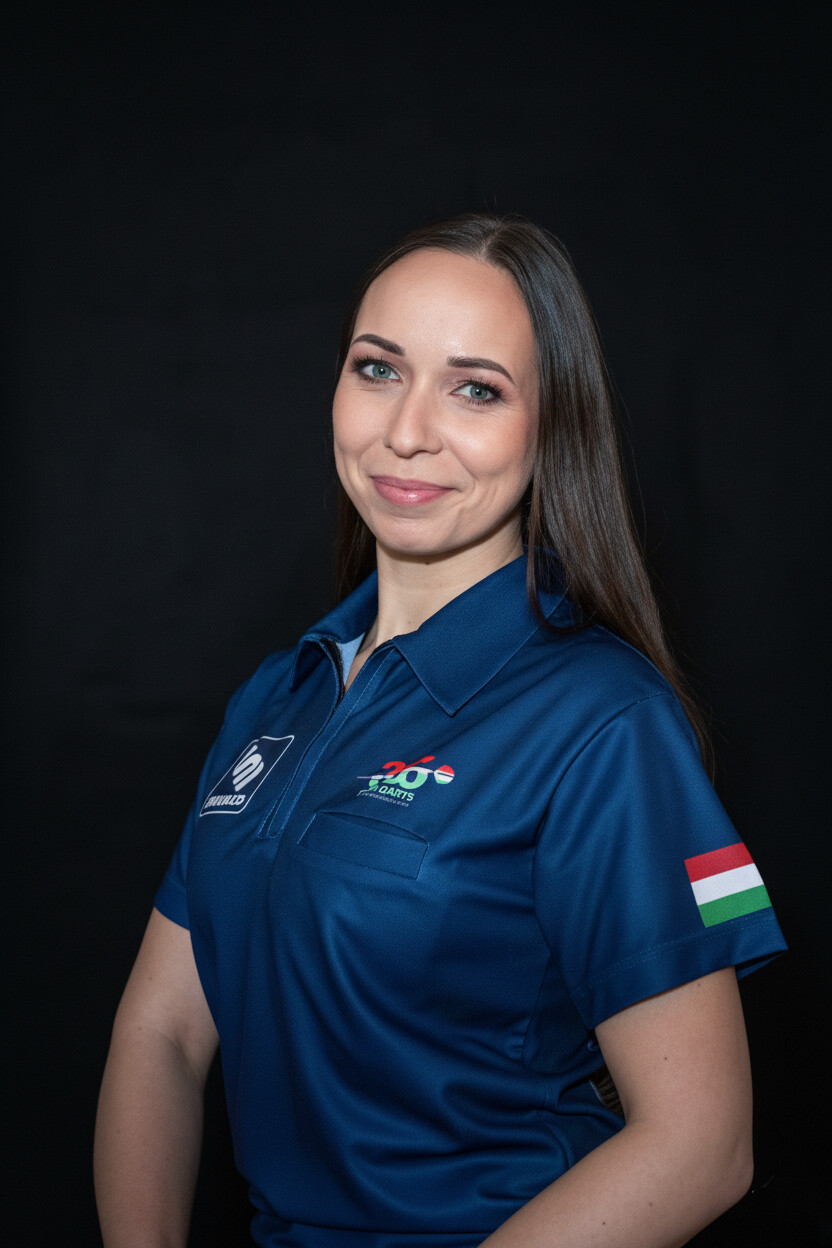
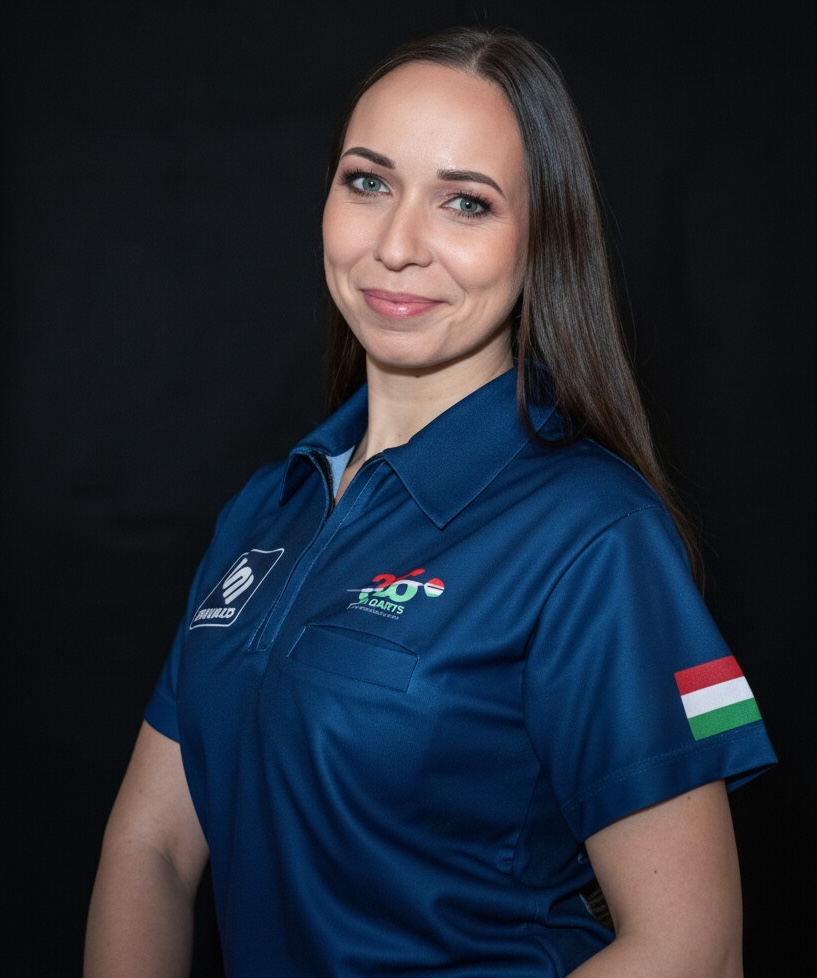
sos javítások

diff --git a/src/app/alapitvanyrol/magunkrol/page.tsx b/src/app/alapitvanyrol/magunkrol/page.tsx
@@ -9,55 +9,85 @@ export default function AboutPage() {
         <div className="container mx-auto px-4 text-center">
           <h1 className="text-4xl font-bold text-white mb-4">Rólunk</h1>
           <p className="text-xl text-gray-400 max-w-2xl mx-auto">
-            A 365daysdarts Alapítvány küldetése, víziója és története.
+            A Magyar Darts Akadémia Alapítvány története és küldetése.
           </p>
         </div>
       </section>
 
       <div className="container mx-auto px-4 py-12 space-y-20">
-        {/* Mission */}
-        <div className="grid md:grid-cols-2 gap-12 items-center">
+        
+        {/* MDAA BEMUTATKOZÓ */}
+        <div className="grid md:grid-cols-2 gap-12 items-start">
           <div className="space-y-6">
-            <div className="inline-flex items-center rounded-full bg-cta/10 px-3 py-1 text-sm text-cta border border-cta/20">
-              Küldetésünk
+            <h2 className="text-3xl font-bold text-white">Bemutatkozás</h2>
+            <div className="space-y-4 text-gray-300 leading-relaxed text-lg">
+              <p>
+                A Magyar Darts Akadémia Alapítványt alapítóink - <strong>Balázs Gábor</strong> és <strong>Tekauer Norbert</strong> - 2021-ben azzal a céllal hozták létre, 
+                hogy a darts sportot Magyarországon minél szélesebb körben megismertesse és népszerűsítse, valamint hogy a sportág iránt 
+                érdeklődő és elhivatott játékosok számára folyamatos játék- és versenyzési lehetőségeket biztosítson.
+              </p>
+              <p>
+                Az alapítvány szakmai munkáját szoros együttműködésben végzi a <strong>Magyar Darts Szövetséggel</strong>, mint sportszakmai irányító 
+                szervezettel, valamint a hazai darts egyesületekkel. Ennek az együttműködésnek köszönhetően tevékenységünk stabil szakmai 
+                alapokon nyugszik, és hosszú távon is fenntartható fejlődést biztosít a sportág számára.
+              </p>
+              <p>
+                Éves szinten kiemelt figyelmet fordítunk arra, hogy minél több eseményt és versenyt szervezzünk amatőr, fiatal, valamint sérült 
+                játékosok számára is, lehetőséget adva számukra a fejlődésre és akár a versenyzői szintre való továbblépésre.
+              </p>
             </div>
-            <h2 className="text-3xl font-bold text-white">A Darts Mindenkié</h2>
-            <p className="text-gray-300 leading-relaxed">
-              Lorem ipsum dolor sit amet, consectetur adipiscing elit. Sed do eiusmod tempor incididunt ut labore et dolore magna aliqua. Ut enim ad minim veniam, quis nostrud exercitation ullamco laboris nisi ut aliquip ex ea commodo consequat.
-            </p>
-            <p className="text-gray-300 leading-relaxed">
-              Duis aute irure dolor in reprehenderit in voluptate velit esse cillum dolore eu fugiat nulla pariatur. Excepteur sint occaecat cupidatat non proident, sunt in culpa qui officia deserunt mollit anim id est laborum.
-            </p>
           </div>
-          <div className="bg-navy p-8 rounded-2xl border border-navy-lighter flex items-center justify-center min-h-[300px]">
-            <Target className="h-32 w-32 text-navy-lighter" />
+          
+          <div className="bg-navy p-8 rounded-2xl border border-navy-lighter text-gray-300 space-y-4">
+             <p>
+                Elsődleges célcsoportunk a fiatal utánpótlás korosztály, valamint az aktív versenyzéstől már visszavonult, de a sportág iránt továbbra is 
+                elkötelezett játékosok. Ugyanakkor amatőr versenyeink széles korosztályt szólítanak meg, amely jelentős közösségépítő erőt képvisel.
+             </p>
+             <p>
+                A Magyar Darts Szövetséggel együttműködve, állandó klubhelyszínünkön a <strong>Remiz Event</strong> rendezvénytermében éves 
+                szinten közel 60 darts versenyt és eseményt valósítunk meg. Emellett az elmúlt években sikeresen elindítottuk amatőr 
+                versenysorozatunkat, a <strong>Diamonds Cup</strong>-ot, amelyre minden darts iránt érdeklődőt szeretettel vár a Magyar Darts Akadémia Alapítvány.
+             </p>
           </div>
         </div>
 
-        {/* Vision */}
-        <div className="grid md:grid-cols-2 gap-12 items-center md:flex-row-reverse">
-          <div className="bg-navy p-8 rounded-2xl border border-navy-lighter flex items-center justify-center min-h-[300px] md:order-1">
-            <Heart className="h-32 w-32 text-navy-lighter" />
-          </div>
-          <div className="space-y-6 md:order-2">
-            <div className="inline-flex items-center rounded-full bg-purple-500/10 px-3 py-1 text-sm text-purple-400 border border-purple-500/20">
-              Vízió
+        {/* ALAPÍTÓI KÜLDETÉS NYILATKOZAT */}
+        <div className="bg-navy-darker rounded-3xl p-8 md:p-12 border border-navy-lighter relative overflow-hidden">
+            <div className="absolute top-0 right-0 w-64 h-64 bg-cta/5 rounded-full blur-3xl -translate-y-1/2 translate-x-1/2" />
+            
+            <div className="relative z-10 max-w-4xl mx-auto text-center space-y-8">
+                <div className="inline-block px-4 py-1 rounded-full bg-cta/10 text-cta border border-cta/20 text-sm font-semibold tracking-wider uppercase">
+                    Alapítói Küldetés Nyilatkozat
+                </div>
+                
+                <h2 className="text-3xl md:text-4xl font-bold text-white">
+                    Balázs Gábor & Tekauer Norbert
+                </h2>
+
+                <div className="text-xl text-gray-300 leading-relaxed italic">
+                    "A Magyar Darts Akadémia Alapítvány küldetése, hogy a darts sportot nyitott, befogadó és közösségformáló tevékenységként képviselje Magyarországon."
+                </div>
+
+                <div className="grid md:grid-cols-2 gap-8 text-left text-gray-400 mt-8">
+                    <p>
+                        Célunk, hogy minden korosztály és képesség számára elérhetővé tegyük a darts nyújtotta sportolási és közösségi élményt, különös 
+                        hangsúlyt fektetve az utánpótlás-nevelésre, az amatőr sport támogatására, valamint a hátrányos helyzetű és sérült játékosok bevonására.
+                    </p>
+                    <p>
+                        Hiszünk abban, hogy a darts nem csupán versenysport, hanem egy olyan közösségépítő eszköz, amely fejleszti a koncentrációt, az 
+                        önfegyelmet és a sportszerűséget, miközben baráti és támogató közeget teremt a résztvevők számára.
+                    </p>
+                </div>
+                
+                <div className="pt-8 border-t border-navy-lighter">
+                    <p className="text-gray-400">
+                        Küldetésünk megvalósítása érdekében hosszú távú, szakmailag megalapozott együttműködésre törekszünk a <strong>Magyar Darts Szövetséggel</strong>, 
+                        az egyesületekkel és minden olyan partnerrel, aki osztja értékeinket, és tenni kíván a magyar darts jövőjéért.
+                    </p>
+                </div>
             </div>
-            <h2 className="text-3xl font-bold text-white">Egy Támogató Közösség</h2>
-            <p className="text-gray-300 leading-relaxed">
-              Ut enim ad minim veniam, quis nostrud exercitation ullamco laboris nisi ut aliquip ex ea commodo consequat. Duis aute irure dolor in reprehenderit in voluptate velit esse cillum dolore eu fugiat nulla pariatur.
-            </p>
-          </div>
         </div>
 
-        {/* History timeline teaser */}
-        <div className="text-center max-w-3xl mx-auto space-y-8">
-          <History className="h-12 w-12 text-cta mx-auto" />
-          <h2 className="text-3xl font-bold text-white">Történetünk</h2>
-          <p className="text-gray-300">
-            2020-ban indultunk egy kis baráti társaságból, mára pedig az ország egyik legnagyobb darts oktatási központjává nőttük ki magunkat.
-          </p>
-        </div>
       </div>
     </div>
   )

diff --git a/src/components/layout/Footer.tsx b/src/components/layout/Footer.tsx
@@ -9,7 +9,7 @@ export function Footer() {
       <div className="border-b border-navy-lighter bg-navy-darker/50">
         <div className="container mx-auto px-4 py-8">
             <h4 className="text-sm font-semibold text-gray-400 mb-6 text-center uppercase tracking-wider">Partnereink</h4>
-                <div className="flex flex-wrap gap-8 items-center justify-center opacity-80grayscale hover:grayscale-0 transition-all duration-300">
+                <div className="flex flex-wrap gap-8 items-center justify-center opacity-80 grayscale hover:grayscale-0 transition-all duration-300">
                     <img src="/instrukturok/aktiv-magyarorszag-logo (1).png" alt="Aktív Magyarország" className="h-12 w-auto object-contain" />
                     <img src="/instrukturok/bethlen_gabor_alapkezelo_zrt_logo.png" alt="Bethlen Gábor Alapkezelő" className="h-12 w-auto object-contain" />
                     <img src="/instrukturok/mdsz_logo_vektor.svg" alt="Magyar Darts Szövetség" className="h-16 w-auto object-contain" />
@@ -17,6 +17,7 @@ export function Footer() {
                     {/* Scolia logo missing, using placeholder if needed or just skipping */}
                     <img src="/instrukturok/Sakkmed logo (2).png" alt="Sakkmed" className="h-12 w-auto object-contain" />
                     <img src="/instrukturok/drk-logo.svg" alt="Dorko" className="h-8 w-auto object-contain" />
+                    <img src="/instrukturok/tdarts_logo.svg" alt="T-Darts" className="h-10 w-auto object-contain" />
                 </div>
         </div>
       </div>

diff --git a/src/app/alapitvanyrol/oktatok/page.tsx b/src/app/alapitvanyrol/oktatok/page.tsx
@@ -75,7 +75,7 @@ export default function StaffPage() {
                      src={member.image} 
                      alt={member.name}
                      fill
-                     className="object-cover object-center"
+                     className="object-contain object-center"
                    />
                  ) : (
                    <div className="absolute inset-0 flex items-center justify-center text-gray-500 bg-navy-lighter">
